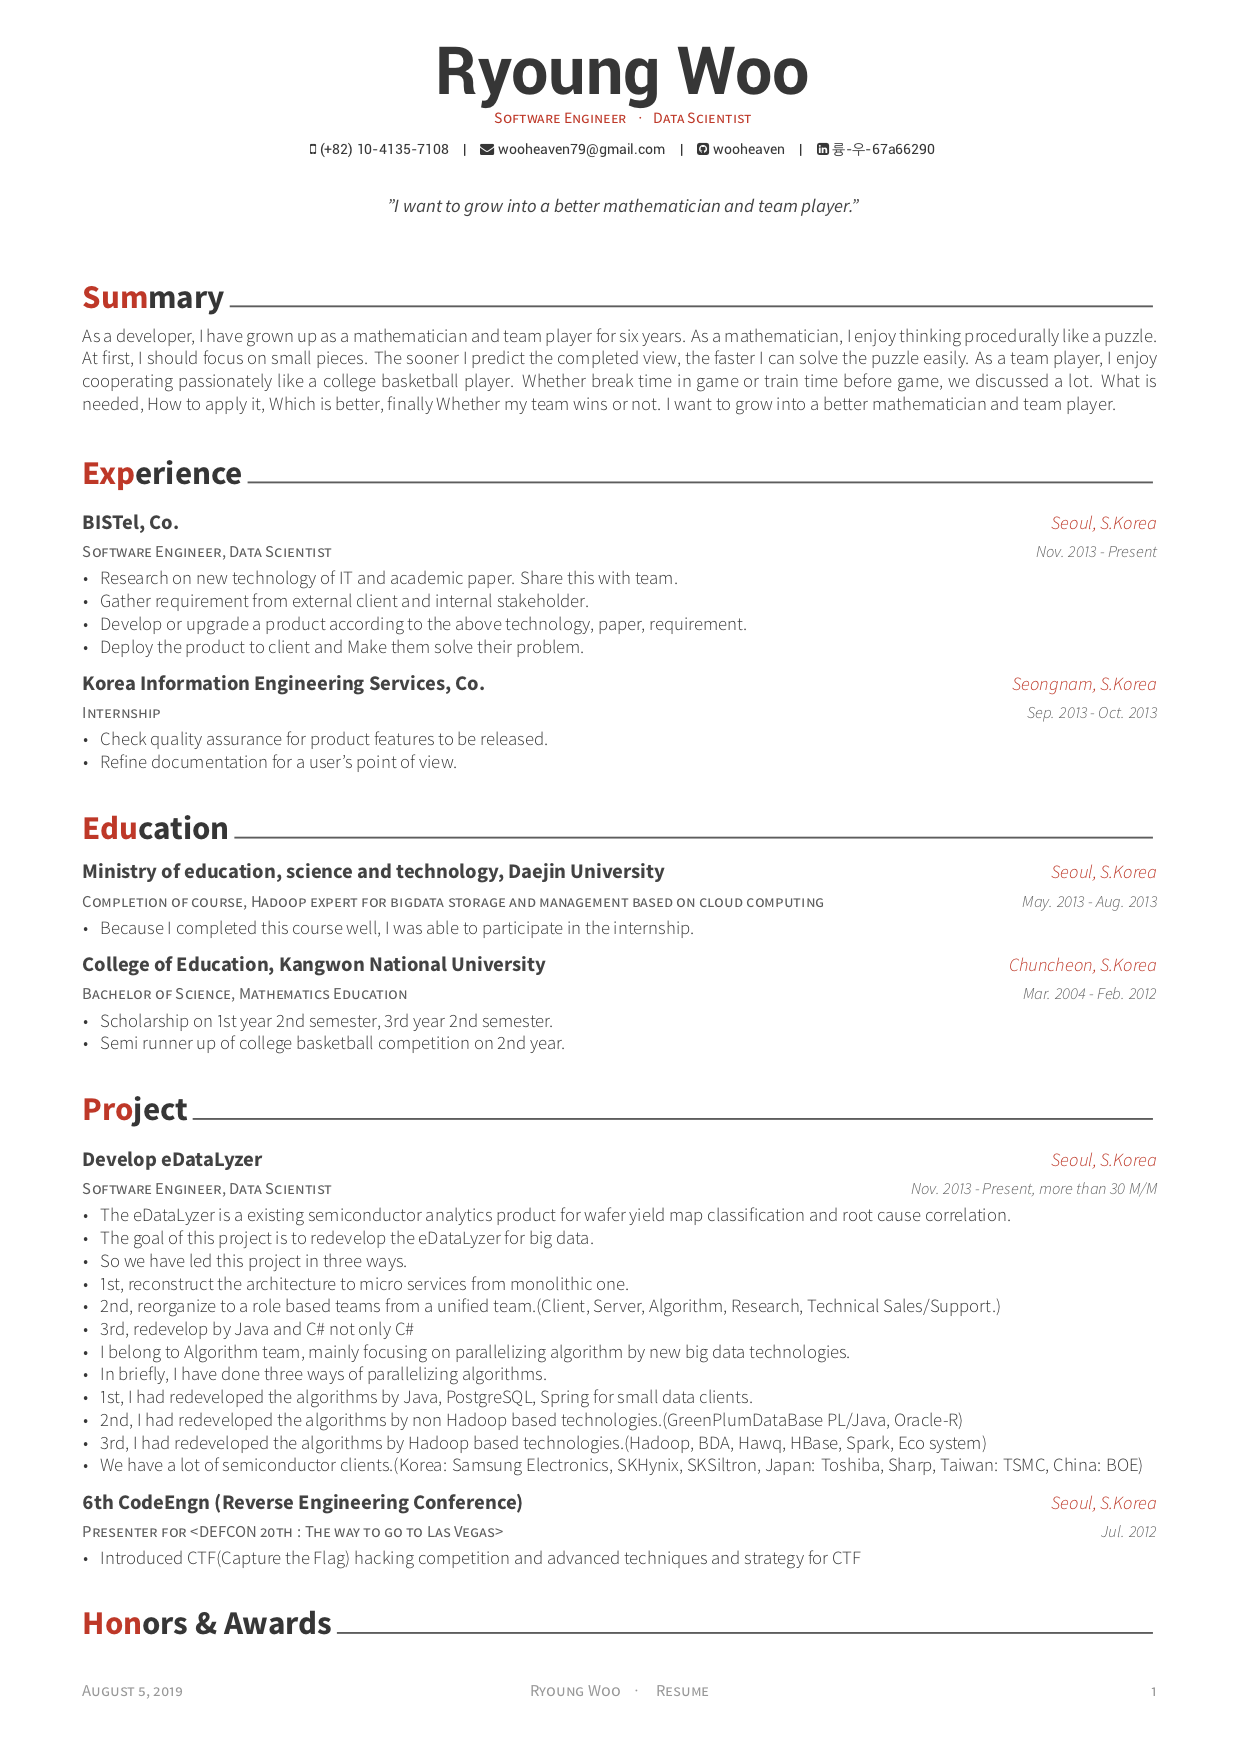
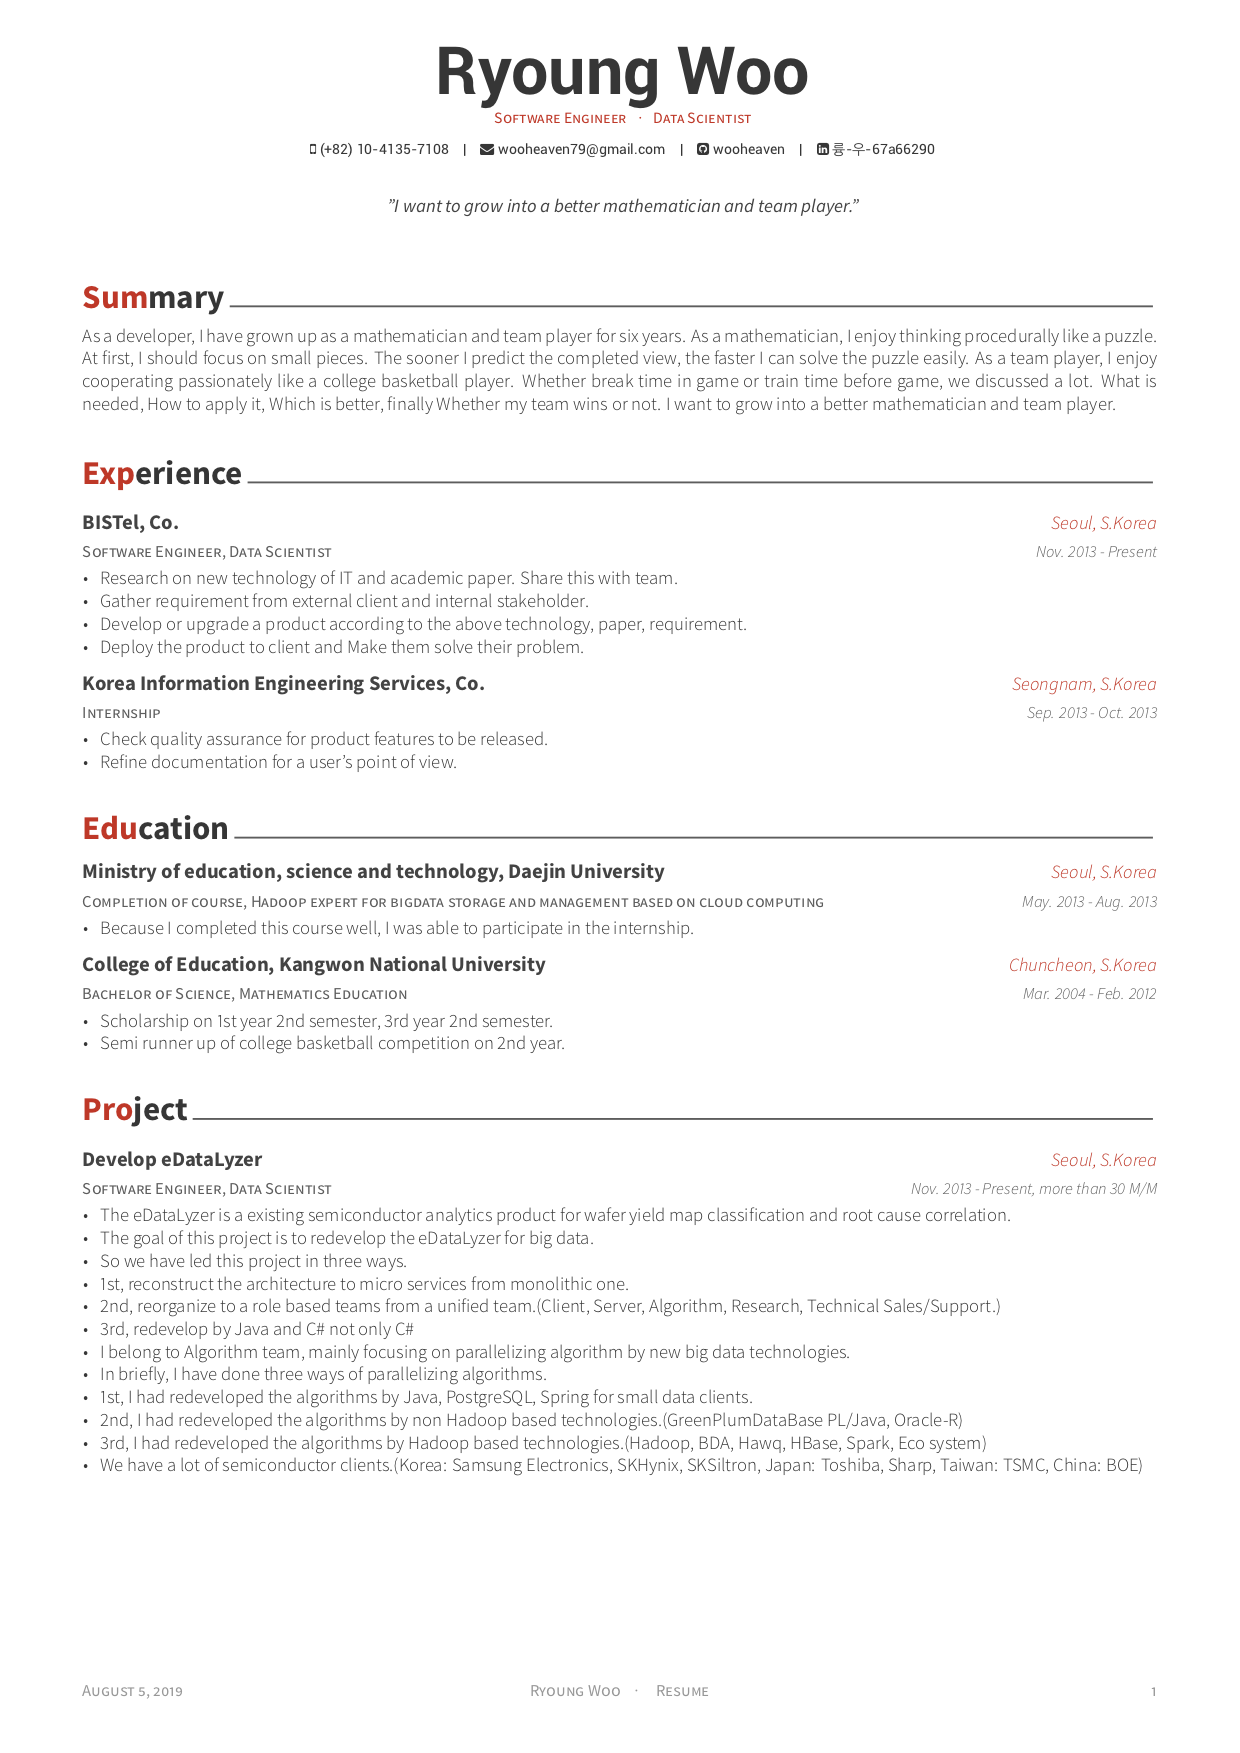
#12-modify-pro-3 ``` modified:   examples/resume-0.png modified:   examples/resume-1.png modified:   examples/resume.pdf modified:   examples/resume/project.tex ```

Changed region(s): [[0.0613, 0.8317, 0.429, 0.8933], [0.0613, 0.9241, 0.2758, 0.9549]]

diff --git a/examples/resume/project.tex b/examples/resume/project.tex
@@ -34,13 +34,23 @@
 
 %---------------------------------------------------------
   \cventry
-    {Presenter for <DEFCON 20th : The way to go to Las Vegas>} % Role
-    {6th CodeEngn (Reverse Engineering Conference)} % Event
+    {Researcher, Software Engineer} % Role
+    {Research to Apply Reinforcement Learning on Semiconductor} % Event
     {Seoul, S.Korea} % Location
-    {Jul. 2012} % Date(s)
+    {Dec. 2018 - Present, 9 months, 6 M/M} % Date(s)
     {
       \begin{cvitems} % Description(s)
-        \item {Introduced CTF(Capture the Flag) hacking competition and advanced techniques and strategy for CTF}
+        \item {The goal of this project is to apply reinforcement learning on semiconductor and share the experience with team.}
+        \item {I pick up 8-Puzzle as a environment for reinforcement learning.}
+        \item {Here's why I pick up it in details.}
+        \item {1st, in order to collaborate with teammates, I need to find the generalized environment is easy to apply Graph Theory.}
+        \item {So I pick up operation management of production on semiconductor.}
+        \item {2nd, in order to find suitable environment not complex one, I pick up 9-Puzzle.}
+        \item {Focus on shortest path not yield, productivity, stability, automation rate, etc.}
+        \item {The recent research situation is as follows.}
+        \item {1st, solve 8-Puzzle by Dynamic Programming}
+        \item {2nd, fail to solve 8-Puzzle by QLearning, Deep SARSA, Polish Gradient.}
+        \item {The rest of the research is to find out why and how to overcome it.}
       \end{cvitems}
     }
 
